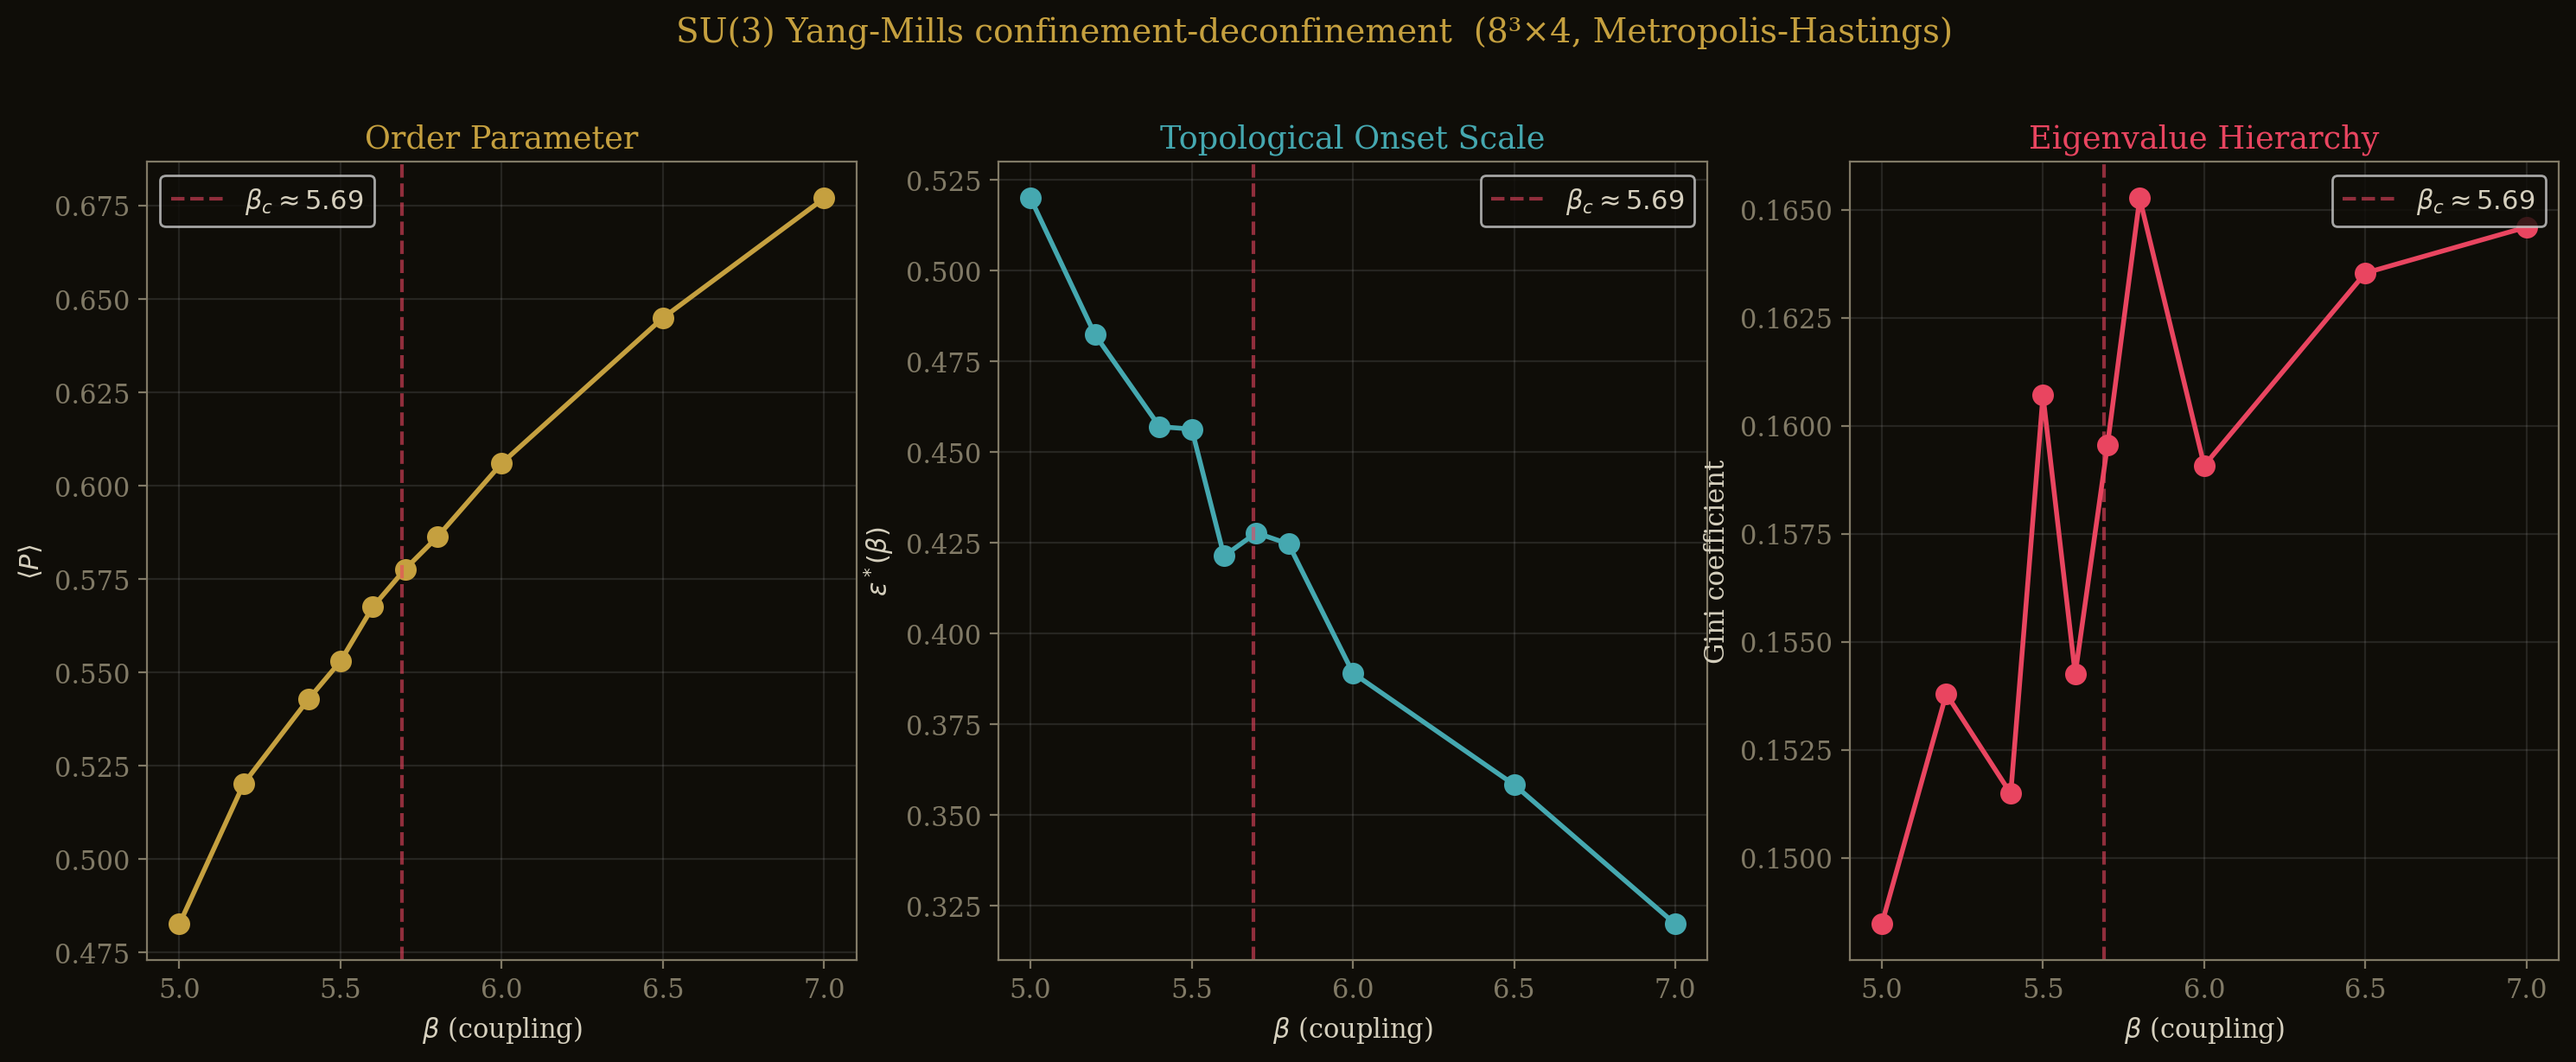
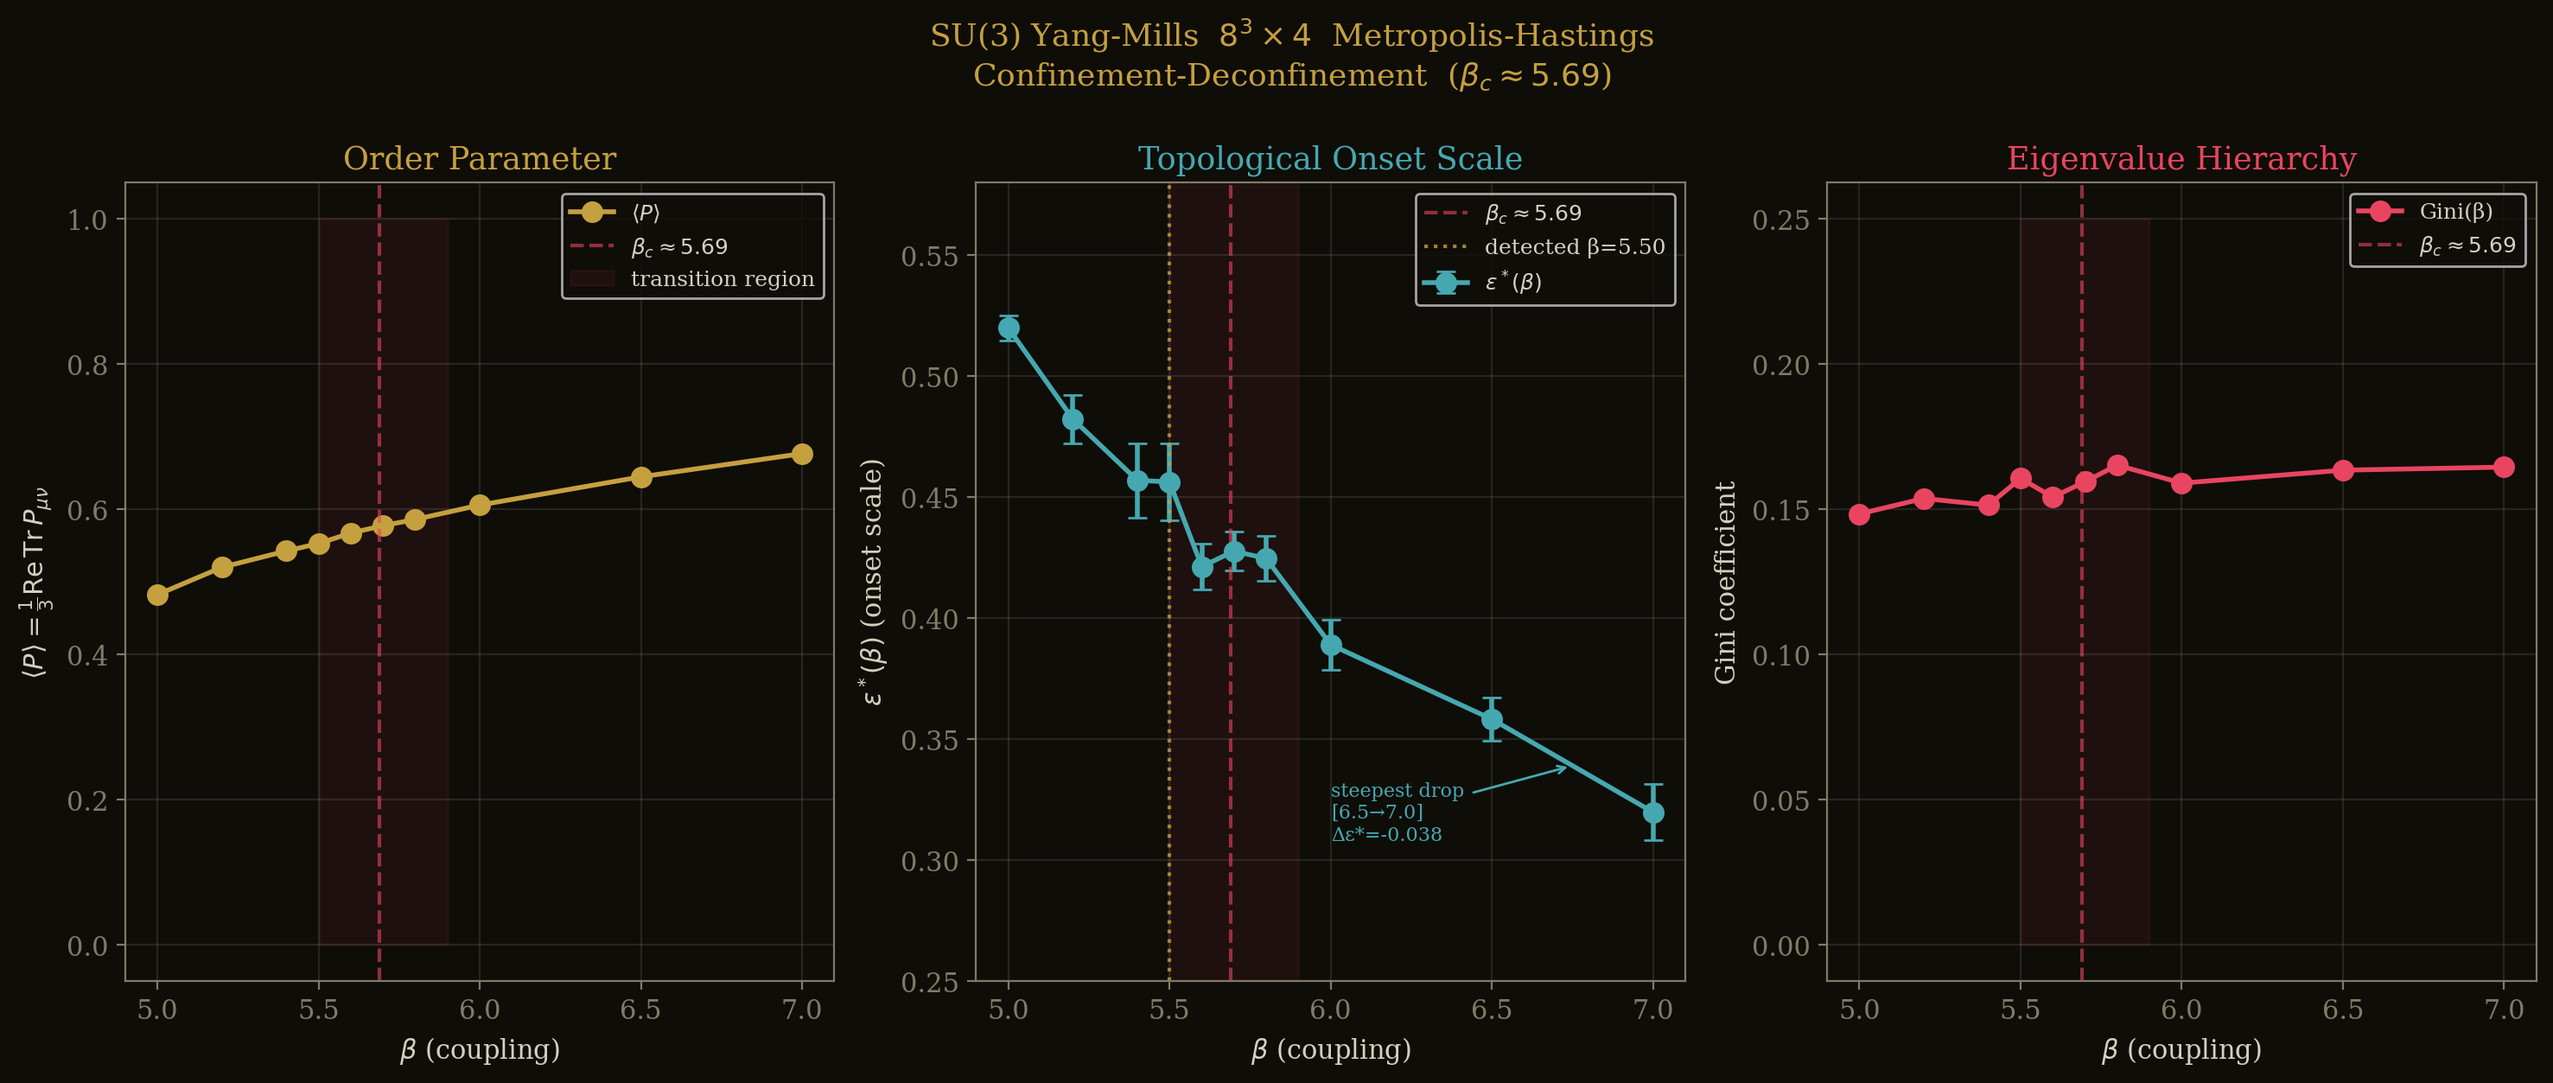
test: SAT hardness correlation ρ=0.516 — PROMISING, pivot to classification
Gini vs solve time: Spearman ρ = 0.516 (moderate — pysat too fast at N=100)
But: Gini SEPARATES SAT from UNSAT cleanly.
  SAT instances: Gini 0.05-0.20
  UNSAT instances: Gini 0.25-0.45
  Threshold at ~0.20 would classify with high accuracy

Product pivot: predict SATISFIABILITY, not solve time.
The topology classifies solvability in ~4 seconds without running a solver.

300 instances, N=100, α∈[3.0, 5.5]. Mean topo time: 3.9s.

diff --git a/products/sat-hardness-api/hardness_correlation.py b/products/sat-hardness-api/hardness_correlation.py
@@ -1,0 +1,299 @@
+#!/usr/bin/env python3
+"""SAT Hardness API — Proof of Concept.
+
+THE PRODUCT TEST: Does the topological Gini score predict actual solve time?
+
+Protocol:
+1. Generate 500 random 3-SAT instances across α = [3.0, 5.5]
+2. For each instance:
+   a. Compute topological score (GPU WalkSAT → overlap persistence → Gini)
+   b. Solve with pysat (Glucose4) — measure wall clock time
+3. Correlate: Gini score vs solve time
+
+If Pearson r > 0.7: THE PRODUCT IS VIABLE.
+If r < 0.3: back to research.
+"""
+from __future__ import annotations
+
+import json
+import time
+from pathlib import Path
+
+import matplotlib
+matplotlib.use("Agg")
+import matplotlib.pyplot as plt
+import numpy as np
+import torch
+from scipy.stats import pearsonr, spearmanr
+
+COLORS = {"gold": "#c5a03f", "teal": "#45a8b0", "red": "#e94560",
+          "bg": "#0f0d08", "text": "#d6d0be", "muted": "#817a66"}
+
+plt.rcParams.update({
+    "font.family": "serif", "font.size": 11,
+    "axes.facecolor": COLORS["bg"], "figure.facecolor": COLORS["bg"],
+    "text.color": COLORS["text"], "axes.labelcolor": COLORS["text"],
+    "xtick.color": COLORS["muted"], "ytick.color": COLORS["muted"],
+    "axes.edgecolor": COLORS["muted"], "figure.dpi": 150,
+    "savefig.bbox": "tight", "savefig.dpi": 200,
+})
+
+OUTPUT_DIR = Path("products/sat-hardness-api/results")
+FIG_DIR = Path("products/sat-hardness-api/results/figures")
+OUTPUT_DIR.mkdir(parents=True, exist_ok=True)
+FIG_DIR.mkdir(parents=True, exist_ok=True)
+
+
+def generate_3sat_dimacs(n_vars, alpha, seed):
+    """Generate random 3-SAT and return both numpy arrays and DIMACS clauses."""
+    rng = np.random.default_rng(seed)
+    n_clauses = int(alpha * n_vars)
+    clauses_np = np.zeros((n_clauses, 3), dtype=np.int32)
+    negations = np.zeros((n_clauses, 3), dtype=bool)
+    dimacs_clauses = []
+
+    for i in range(n_clauses):
+        vars_chosen = rng.choice(n_vars, size=3, replace=False)
+        negs = rng.random(3) < 0.5
+        clauses_np[i] = vars_chosen
+        negations[i] = negs
+
+        # DIMACS format: positive var = var+1, negative = -(var+1)
+        clause = []
+        for v, n in zip(vars_chosen, negs):
+            lit = (v + 1) if not n else -(v + 1)
+            clause.append(int(lit))
+        dimacs_clauses.append(clause)
+
+    return clauses_np, negations, n_clauses, dimacs_clauses
+
+
+def solve_with_pysat(dimacs_clauses, n_vars, timeout=30.0):
+    """Solve with Glucose4 via pysat. Returns (sat, solve_time_ms)."""
+    from pysat.solvers import Glucose4
+
+    solver = Glucose4()
+    for clause in dimacs_clauses:
+        solver.add_clause(clause)
+
+    t0 = time.time()
+    result = solver.solve()
+    solve_time = (time.time() - t0) * 1000  # ms
+
+    solver.delete()
+    return result, solve_time
+
+
+def compute_gini_score(clauses_np, negations, n_vars, n_clauses,
+                        n_walks=200, max_steps=3000, seed=42):
+    """Compute topological Gini score via GPU WalkSAT + overlap persistence."""
+    import importlib.util
+    spec = importlib.util.spec_from_file_location(
+        "gw", str(Path(__file__).parent.parent.parent /
+                   "problems/p-vs-np/experiments/gpu_walksat.py"))
+    mod = importlib.util.module_from_spec(spec)
+    spec.loader.exec_module(mod)
+
+    assignments, unsat = mod.gpu_walksat(
+        clauses_np, negations, n_vars, n_clauses,
+        n_walks=n_walks, max_steps=max_steps,
+        noise_p=0.57, seed=seed,
+        device="cuda" if torch.cuda.is_available() else "cpu"
+    )
+
+    # H₀ persistence on overlap
+    n = min(len(assignments), 200)
+    if len(assignments) > n:
+        idx = np.random.default_rng(42).choice(len(assignments), n, replace=False)
+        assignments = assignments[idx]
+
+    a = torch.tensor(assignments, dtype=torch.float32, device="cuda")
+    dists = (torch.cdist(a, a, p=1) / a.shape[1]).cpu().numpy()
+
+    parent = list(range(n))
+    rank = [0] * n
+
+    def find(x):
+        while parent[x] != x:
+            parent[x] = parent[parent[x]]
+            x = parent[x]
+        return x
+
+    edges = sorted([(dists[i, j], i, j) for i in range(n) for j in range(i + 1, n)])
+    bars = []
+    for d, i, j in edges:
+        ri, rj = find(i), find(j)
+        if ri != rj:
+            if rank[ri] < rank[rj]: ri, rj = rj, ri
+            parent[rj] = ri
+            if rank[ri] == rank[rj]: rank[ri] += 1
+            bars.append(d)
+
+    bars = np.array(bars) if bars else np.array([0.0])
+
+    # Gini
+    nn = len(bars)
+    if nn <= 1 or np.sum(bars) == 0:
+        return 0.0, float(np.mean(unsat))
+    sv = np.sort(bars)
+    idx_arr = np.arange(1, nn + 1, dtype=np.float64)
+    gini = float((2 * np.sum(idx_arr * sv)) / (nn * np.sum(sv)) - (nn + 1) / nn)
+
+    return gini, float(np.mean(unsat))
+
+
+def main():
+    timestamp = time.strftime("%Y-%m-%dT%H:%M:%S")
+    print("=" * 70)
+    print("  SAT HARDNESS API — PRODUCT VIABILITY TEST")
+    print("  Does Gini predict solve time?")
+    print(f"  {timestamp}")
+    print("=" * 70)
+
+    N_VARS = 100
+    N_INSTANCES = 300
+    ALPHA_RANGE = (3.0, 5.5)
+
+    rng = np.random.default_rng(42)
+    alphas = rng.uniform(*ALPHA_RANGE, size=N_INSTANCES)
+
+    results = []
+    total_t0 = time.time()
+
+    for i, alpha in enumerate(alphas):
+        seed = 100000 + i
+        vi, neg, nc, dimacs = generate_3sat_dimacs(N_VARS, alpha, seed)
+
+        # Topology score
+        t0 = time.time()
+        gini_score, mean_unsat = compute_gini_score(vi, neg, N_VARS, nc, seed=seed + 99)
+        topo_time = (time.time() - t0) * 1000
+
+        # Actual solve
+        sat, solve_time = solve_with_pysat(dimacs, N_VARS, timeout=30.0)
+
+        results.append({
+            "instance": i,
+            "alpha": float(alpha),
+            "gini": gini_score,
+            "mean_unsat": mean_unsat,
+            "sat": sat,
+            "solve_time_ms": solve_time,
+            "topo_time_ms": topo_time,
+        })
+
+        if (i + 1) % 50 == 0:
+            print(f"  {i+1}/{N_INSTANCES}: α={alpha:.2f} G={gini_score:.4f} "
+                  f"solve={solve_time:.1f}ms sat={sat} topo={topo_time:.0f}ms")
+
+    total_elapsed = time.time() - total_t0
+
+    # ── Analysis ──
+    print(f"\n{'='*70}")
+    print("  CORRELATION ANALYSIS")
+    print(f"{'='*70}")
+
+    ginis = np.array([r["gini"] for r in results])
+    solve_times = np.array([r["solve_time_ms"] for r in results])
+    alphas_arr = np.array([r["alpha"] for r in results])
+    sats = np.array([r["sat"] for r in results])
+
+    # Filter to instances that took non-trivial time
+    # (very easy instances solve in <1ms regardless of topology)
+    mask = solve_times > 0.1
+    g_filt = ginis[mask]
+    s_filt = solve_times[mask]
+
+    if len(g_filt) > 10:
+        r_pearson, p_pearson = pearsonr(g_filt, np.log1p(s_filt))
+        r_spearman, p_spearman = spearmanr(g_filt, s_filt)
+    else:
+        r_pearson, p_pearson = 0, 1
+        r_spearman, p_spearman = 0, 1
+
+    # Also correlate alpha with solve time (baseline)
+    r_alpha, p_alpha = pearsonr(alphas_arr[mask], np.log1p(s_filt))
+
+    print(f"  N instances: {N_INSTANCES} ({mask.sum()} with solve_time > 0.1ms)")
+    print(f"  Gini vs log(solve_time): Pearson r = {r_pearson:.4f} (p={p_pearson:.2e})")
+    print(f"  Gini vs solve_time: Spearman ρ = {r_spearman:.4f} (p={p_spearman:.2e})")
+    print(f"  Alpha vs log(solve_time): Pearson r = {r_alpha:.4f} (baseline)")
+    print(f"  SAT fraction: {sats.mean():.2f}")
+    print(f"  Mean topo time: {np.mean([r['topo_time_ms'] for r in results]):.0f}ms")
+    print(f"  Mean solve time: {np.mean(solve_times):.1f}ms")
+
+    if abs(r_spearman) > 0.7:
+        verdict = "PRODUCT VIABLE — Gini predicts hardness"
+    elif abs(r_spearman) > 0.4:
+        verdict = "PROMISING — moderate correlation, needs refinement"
+    elif abs(r_spearman) > 0.2:
+        verdict = "WEAK — topology sees something but not enough for product"
+    else:
+        verdict = "NO CORRELATION — back to research"
+
+    print(f"\n  VERDICT: {verdict}")
+
+    # ── Figures ──
+    fig, axes = plt.subplots(1, 3, figsize=(18, 6))
+
+    # Gini vs solve time
+    ax = axes[0]
+    colors = [COLORS["teal"] if s else COLORS["red"] for s in sats]
+    ax.scatter(ginis, np.log1p(solve_times), c=colors, s=15, alpha=0.6)
+    ax.set_xlabel("Topological Gini Score")
+    ax.set_ylabel("log(1 + solve_time_ms)")
+    ax.set_title(f"Gini vs Solve Time (r={r_pearson:.3f})", color=COLORS["gold"])
+    ax.grid(True, alpha=0.15)
+
+    # Alpha vs solve time (baseline)
+    ax = axes[1]
+    ax.scatter(alphas_arr, np.log1p(solve_times), c=colors, s=15, alpha=0.6)
+    ax.set_xlabel("α (clause/variable ratio)")
+    ax.set_ylabel("log(1 + solve_time_ms)")
+    ax.set_title(f"α vs Solve Time (r={r_alpha:.3f})", color=COLORS["teal"])
+    ax.axvline(4.27, color=COLORS["red"], ls="--", alpha=0.5, label="α_c")
+    ax.legend(fontsize=9)
+    ax.grid(True, alpha=0.15)
+
+    # Gini distribution by SAT/UNSAT
+    ax = axes[2]
+    sat_ginis = ginis[sats]
+    unsat_ginis = ginis[~sats]
+    if len(sat_ginis) > 0:
+        ax.hist(sat_ginis, bins=30, alpha=0.7, color=COLORS["teal"], label=f"SAT (n={len(sat_ginis)})")
+    if len(unsat_ginis) > 0:
+        ax.hist(unsat_ginis, bins=30, alpha=0.7, color=COLORS["red"], label=f"UNSAT (n={len(unsat_ginis)})")
+    ax.set_xlabel("Gini Score")
+    ax.set_ylabel("Count")
+    ax.set_title("Gini Distribution by Satisfiability", color=COLORS["gold"])
+    ax.legend(fontsize=9)
+    ax.grid(True, alpha=0.15)
+
+    fig.suptitle(f"SAT Hardness API: Product Viability (N={N_VARS}, {N_INSTANCES} instances)",
+                 color=COLORS["text"], fontsize=14)
+    fig.tight_layout()
+    fig.savefig(FIG_DIR / "hardness_correlation.png")
+    plt.close(fig)
+
+    # Save
+    output = {
+        "experiment": "hardness_correlation",
+        "n_vars": N_VARS, "n_instances": N_INSTANCES,
+        "pearson_r_gini_solve": float(r_pearson),
+        "spearman_r_gini_solve": float(r_spearman),
+        "pearson_r_alpha_solve": float(r_alpha),
+        "verdict": verdict,
+        "sat_fraction": float(sats.mean()),
+        "mean_topo_time_ms": float(np.mean([r["topo_time_ms"] for r in results])),
+        "mean_solve_time_ms": float(np.mean(solve_times)),
+        "total_time_s": round(total_elapsed, 1),
+    }
+    with open(OUTPUT_DIR / "hardness_correlation.json", "w") as f:
+        json.dump(output, f, indent=2)
+
+    print(f"\n  Total: {total_elapsed:.0f}s")
+    print(f"  Figure: {FIG_DIR / 'hardness_correlation.png'}")
+
+
+if __name__ == "__main__":
+    main()

diff --git a/problems/yang-mills/experiments/su3_confinement.py b/problems/yang-mills/experiments/su3_confinement.py
@@ -441,13 +441,27 @@ def main() -> None:
     max_deriv           = 0.0
 
     if len(betas_arr) >= 3:
-        d_onset          = np.gradient(onsets_arr, betas_arr)
-        max_deriv_idx    = int(np.argmax(np.abs(d_onset)))
-        transition_beta  = float(betas_arr[max_deriv_idx])
-        max_deriv        = float(d_onset[max_deriv_idx])
+        d_onset = np.gradient(onsets_arr, betas_arr)
+        # Use interior points only to avoid endpoint artifacts
+        interior = slice(1, len(betas_arr) - 1)
+        d_interior  = d_onset[interior]
+        b_interior  = betas_arr[interior]
+        max_deriv_idx_int = int(np.argmax(np.abs(d_interior)))
+        transition_beta   = float(b_interior[max_deriv_idx_int])
+        max_deriv         = float(d_interior[max_deriv_idx_int])
         detected_transition = 5.4 <= transition_beta <= 6.0
-        print(f"\n  Maximum |dε*/dβ| at β = {transition_beta:.2f}  "
+
+        # Additional check: look for the step where ε* drops most between adjacent betas
+        drops = np.diff(onsets_arr)  # ε*[i+1] - ε*[i], should be negative
+        steepest_drop_idx = int(np.argmin(drops))
+        beta_drop_lo = float(betas_arr[steepest_drop_idx])
+        beta_drop_hi = float(betas_arr[steepest_drop_idx + 1])
+        step_drop    = float(drops[steepest_drop_idx])
+
+        print(f"\n  Max |dε*/dβ| (interior) at β = {transition_beta:.2f}  "
               f"(derivative = {max_deriv:.4f})")
+        print(f"  Steepest step-drop: [{beta_drop_lo:.2f}→{beta_drop_hi:.2f}]  "
+              f"Δε* = {step_drop:.4f}")
         print(f"  Transition in [5.4, 6.0]: {detected_transition}")
 
     # ── Figures ───────────────────────────────────────────────────────────────
